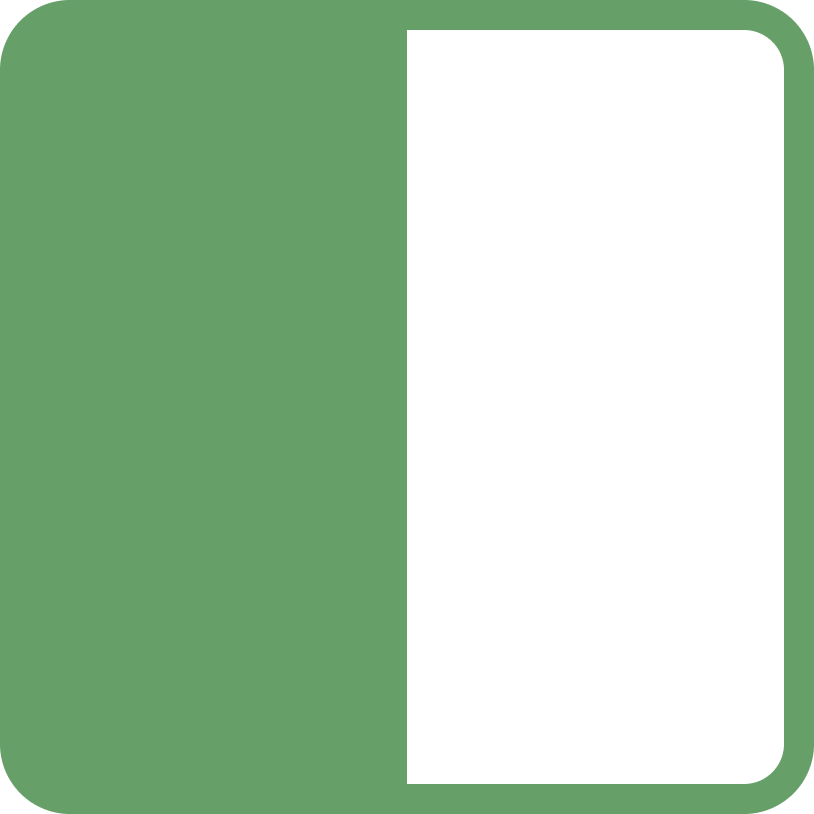
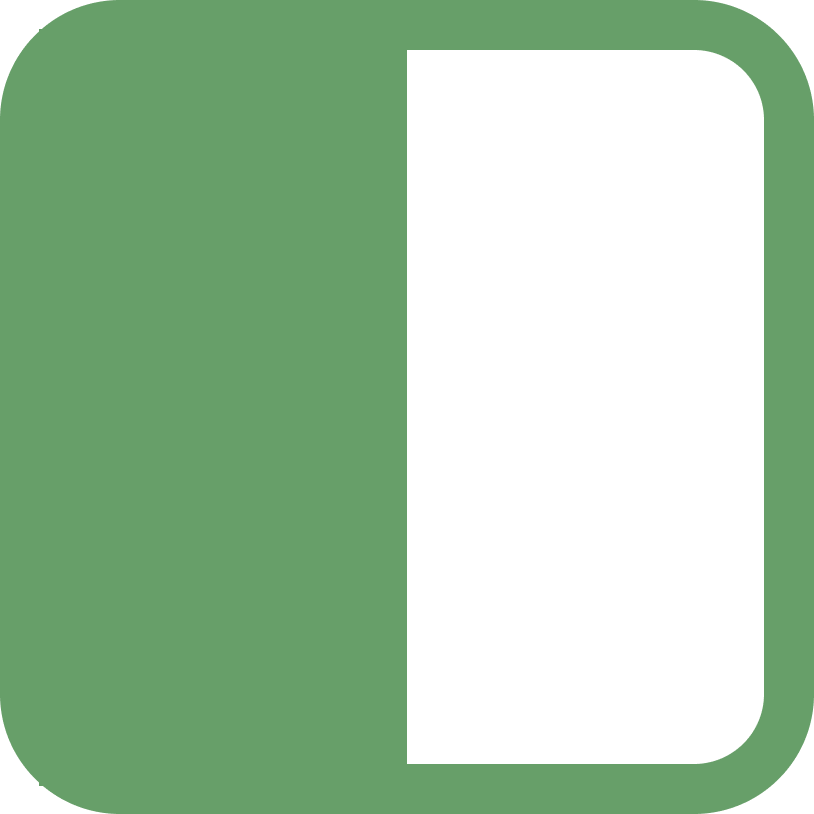
toggle style

Changed region(s): [[0.4914, 0.0, 1.0, 1.0], [0.0, 0.8907, 0.1229, 1.0], [0.0, 0.0, 0.1229, 0.1229]]

diff --git a/style.css b/style.css
@@ -308,8 +308,8 @@ button {
 }
 
 .principles-toggle {
-    width: 1.75rem;
-    height: 1.75rem;
+    width: 2rem;
+    height: 2rem;
     cursor: pointer;
 }
 
